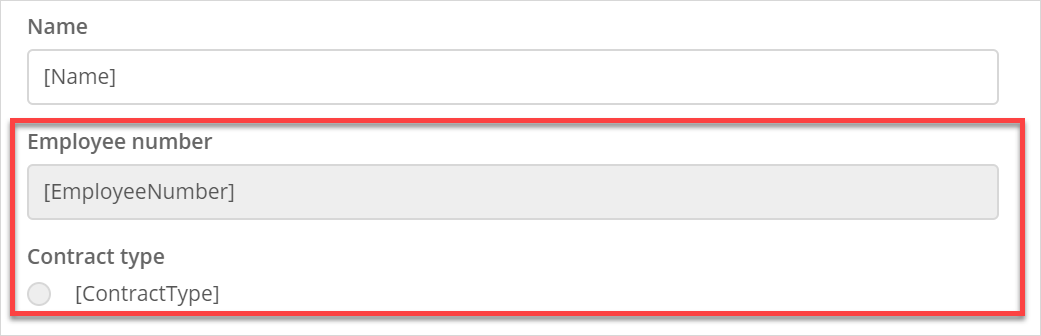
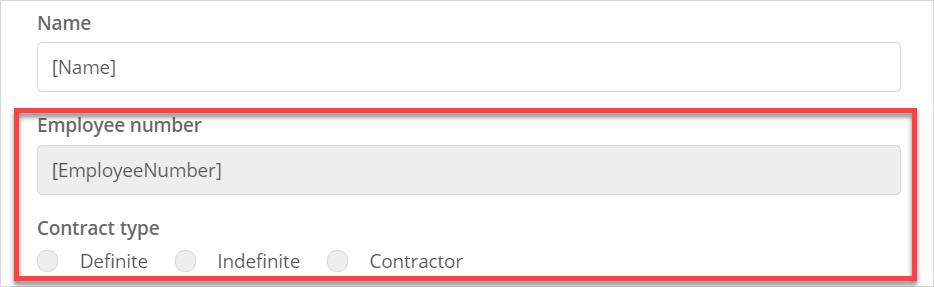
Implement the review partially.

Changed region(s): [[0.0, 0.3066, 0.9936, 1.0], [0.031, 0.1951, 0.1242, 0.2787], [0.031, 0.0557, 0.0931, 0.1115]]

diff --git a/content/studio-how-to/pages-how-to-configure-form.md b/content/studio-how-to/pages-how-to-configure-form.md
@@ -112,13 +112,30 @@ Follow the steps below:
 
     <img src="attachments/pages-how-to-configure-form/data-grid-over-association.png" style="zoom:50%;" />
 
-5. As the purpose of the page is to display information, you do not need the **Search** section in the data grid. Open data grid properties > **Search** section and disable the **Enable Search** toggle:
+5. As the main purpose of the page is to display information, you do not need the **Search** section in the data grid. Open data grid properties > **Search** section and disable the **Enable Search** toggle:
 
     ![Data Grid Search](attachments/pages-how-to-configure-form/data-grid-search.png)
 
-6. You also do not need **Search**, **New**, **Edit**, and **Delete** buttons in the data grid. Open data grid properties > **Control Bar** section and disable the **Show Buttons** toggle:
+6. To be able to add new checklist items to the report, select the **New** button in the data grid and open its properties.
 
-	![Show Buttons Toggle](attachments/pages-how-to-configure-form/data-grid-show-buttons.png)
+7. Set the **On Click Action** to **Page**. 
+
+8. Enable **Create Object** property. The Entity property is automatically set to **Checklist**:
+
+    <img src="attachments/pages-how-to-configure-form/new-button-properties.png" style="zoom:60%;" />
+
+9. Click the **Page** property.
+
+10. In the **Select Page** dialog box, click **New Page**.
+
+11. In the **Create new page** dialog box, fill in the page title and set the **Layout** to **PopupLayout**. 
+
+12. The **Pre-fill page contents based on the Checklist entity** option is on, so the page template (Forms) is selected automatically for you. Choose **Forms Columns**:
+
+     <img src="attachments/pages-how-to-configure-form/new-checklist.png" style="zoom:67%;" />
+
+13. Click **Create**.
+14. A pop-up page where end-users can add new checklist items is created. Now you can select the same page as an on-click action 
 
 Now checklist items are displayed in the table.
 

diff --git a/content/studio-how-to/pages-how-to-set-validation-and-editability.md b/content/studio-how-to/pages-how-to-set-validation-and-editability.md
@@ -19,7 +19,7 @@ The how-to describes the following use case:
 
 You have an HR app where employees can view and edit information about themselves, such as contract details and personal information. You have a page with employee details:
 
-<img src="attachments/pages-how-to-set-validation-and-editability/employee-details-page.png" style="zoom:50%;" />
+<img src="attachments/pages-how-to-set-validation-and-editability/employee-details-page.png" style="zoom:60%;" />
 
 You would like to make some fields on this page obligatory to fill in (required) and some read-only.
 
@@ -47,6 +47,8 @@ To make a field read-only, do the following:
 1. Open the **Employee Details** page.
 
 2. Select the **Contract type** field and open its properties.
+
+    <img src="attachments/pages-how-to-set-validation-and-editability/contract-type.png" style="zoom:50%;" />
 
 3. In the **General** section, set the **Editability** property to read-only:
 
